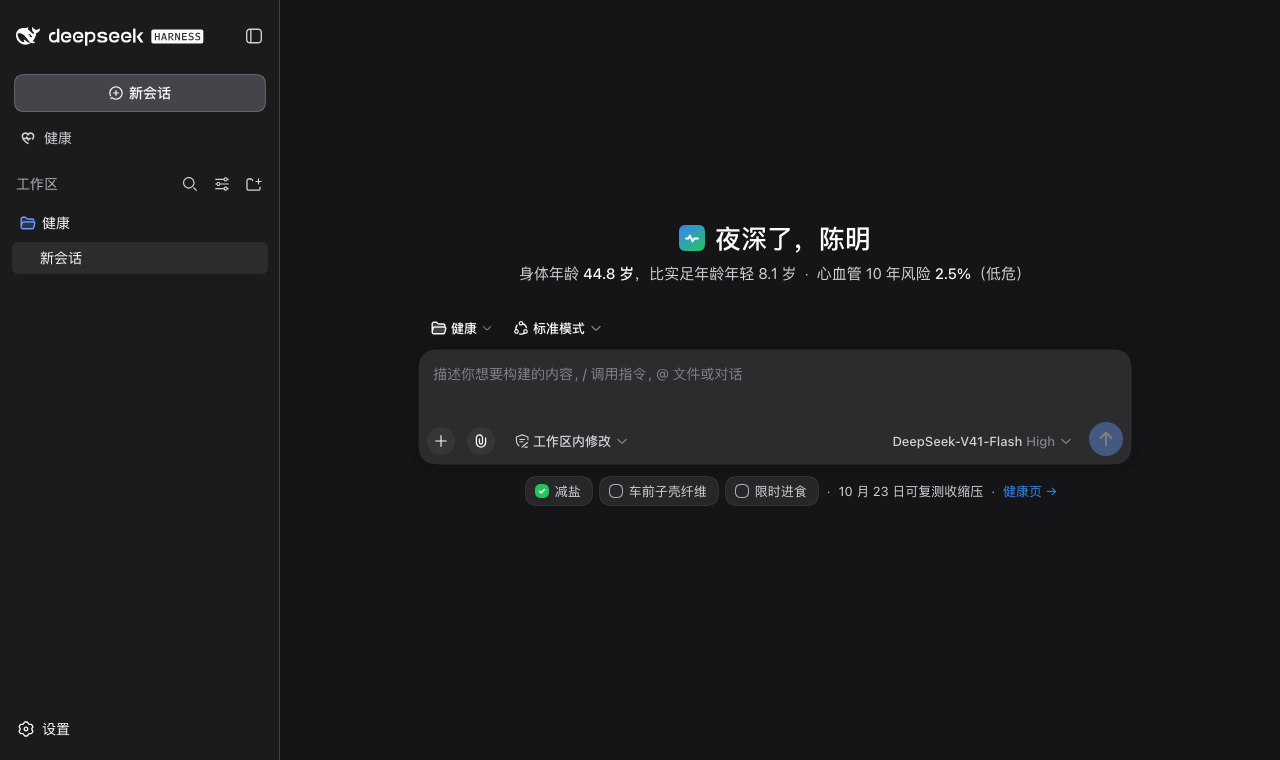
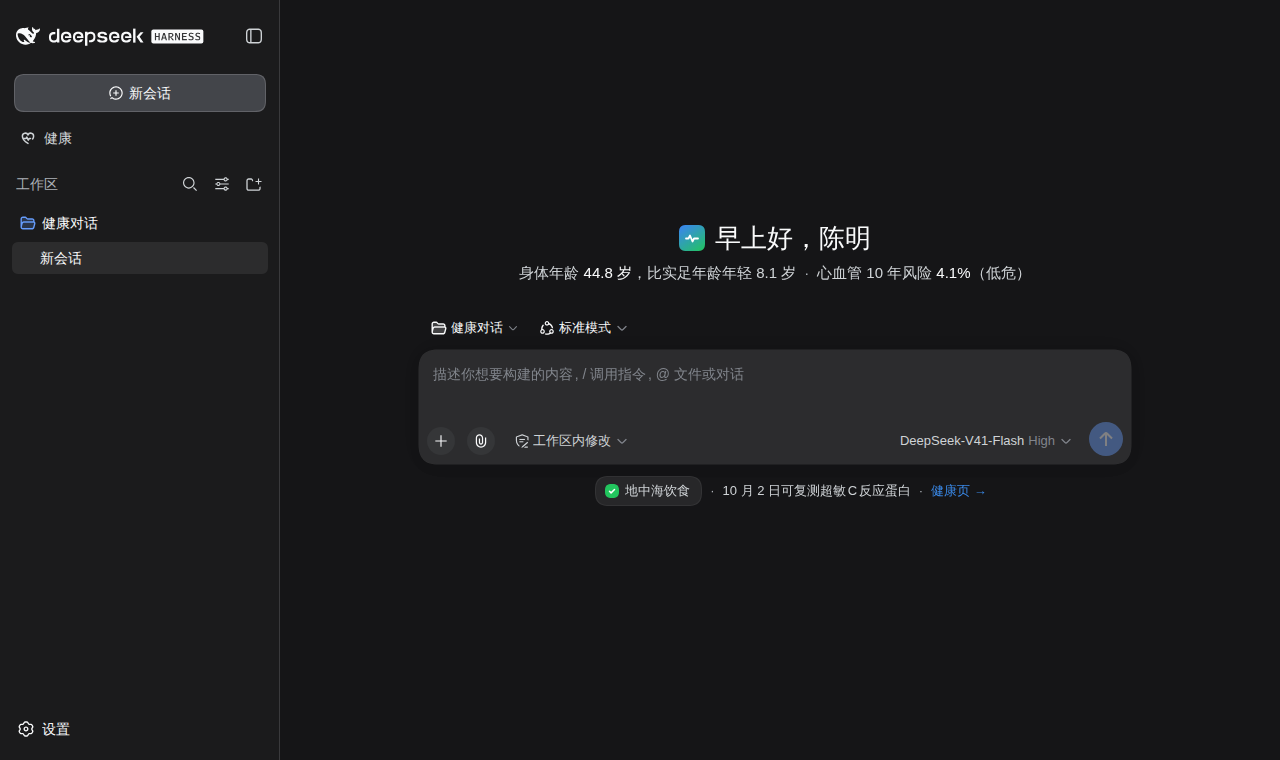
README: screenshots of the four-tab health page (概览, 指标) and the home
Taken in DeepSeek Harness 0.1.5-rc.3 at 1280 px from the synthetic demo
record (test/fake-mirobody.mjs) and the demo person the preview uses:
the home with today's check-in and the next retest, and the health page's
概览 and 指标 tabs. health-page.png (the 0.5.0 single page) is gone;
README.md and README.zh.md show the same three images.

The preview's demo check-ins now go in chunks of 40, the most one call
takes, so its twelve weeks of check-ins reach the week before today.

Claude-Session: https://claude.ai/code/session_01W3ugdhsBbZ9N5bneXirjLr

diff --git a/README.md b/README.md
@@ -11,7 +11,7 @@ LongPi is a personal longevity assistant for [DeepSeek Harness](https://github.c
 - **Effect review**: reference change values separate real change from noise, next to the average effect seen in trials.
 - **Evidence lookup**: what the collected papers say about drugs, supplements, diets and genes, grouped by human, animal and cell studies.
 
-<p align="center"><img src="docs/images/home.png" alt="LongPi home: greeting, phenotypic age and cardiovascular risk, today's check-ins under the input box" width="760"></p>
+<p align="center"><img src="docs/images/home.png" alt="LongPi home: greeting, phenotypic age and cardiovascular risk, today's check-in and the next retest under the input box" width="760"></p>
 
 ## Installation
 
@@ -49,7 +49,8 @@ After onboarding:
 - **Tracking and review**: wearable data counts toward adherence automatically; other items are checked in from the home, the health page or the chat. Once a retest reaches Mirobody, the health page gives a verdict (working, within noise, the wrong way, or cannot tell) with its reasons.
 - **Follow-up**: turn it on in the LongPi page of the settings and set the check-in, retest and weekly-summary times, quiet hours and channels. Reminders are sent only while DeepSeek Harness is running; the brief mode carries no health values.
 
-<p align="center"><img src="docs/images/health-page.png" alt="LongPi health page: record changes, phenotypic age, cardiovascular risk and the plan" width="760"><br><sub>Screenshots use demo data.</sub></p>
+<p align="center"><img src="docs/images/health-overview.png" alt="LongPi health page, 概览 tab: today's check-in, phenotypic age, cardiovascular risk, the next step and notable changes" width="760"></p>
+<p align="center"><img src="docs/images/health-indicators.png" alt="LongPi health page, 指标 tab: checkup and wearable values by group, each with its trend and whether it moved beyond normal fluctuation" width="760"><br><sub>Screenshots use demo data.</sub></p>
 
 Example questions:
 

diff --git a/README.zh.md b/README.zh.md
@@ -12,7 +12,7 @@ LongPi 是运行在 [DeepSeek Harness](https://github.com/deepseek-ai/deepseek-h
 - **效果判定**：以参考变化值区分真实变化与正常波动，并与临床试验的平均效应对照。
 - **证据检索**：查询收录论文中关于药物、补剂、饮食与基因的结论，按人群、动物、细胞研究分组。
 
-<p align="center"><img src="docs/images/home.png" alt="LongPi 首页：问候语、身体年龄与心血管风险，输入框下方是今天的打卡" width="760"></p>
+<p align="center"><img src="docs/images/home.png" alt="LongPi 首页：问候语、身体年龄与心血管风险，输入框下方是今天的打卡和最近的复测" width="760"></p>
 
 ## 安装
 
@@ -50,7 +50,8 @@ curl -fsSL https://raw.githubusercontent.com/zwbao/dsh-plugin-longpi/main/instal
 - **追踪与复盘**：手环数据自动计入执行率，其余项目可在首页、健康页或对话中打卡。复测结果进入 Mirobody 后，健康页给出「有效」「波动内」「反向」或「无法判断」的判定及依据。
 - **随访提醒**：在设置的「LongPi」页中开启，设置打卡、复测和每周小结的时间、免打扰时段和发送渠道。提醒只在 DeepSeek Harness 运行时发送；「简要」模式不含任何健康数值。
 
-<p align="center"><img src="docs/images/health-page.png" alt="LongPi 健康页：记录里的明显变化、身体年龄、心血管风险与方案" width="760"><br><sub>截图使用演示数据。</sub></p>
+<p align="center"><img src="docs/images/health-overview.png" alt="LongPi 健康页「概览」：今天的打卡、身体年龄、心血管风险、下一步和值得注意的变化" width="760"></p>
+<p align="center"><img src="docs/images/health-indicators.png" alt="LongPi 健康页「指标」：体检和手环数值按分组列出，各有趋势和是否超出正常波动" width="760"><br><sub>截图使用演示数据。</sub></p>
 
 常用提问示例：
 
